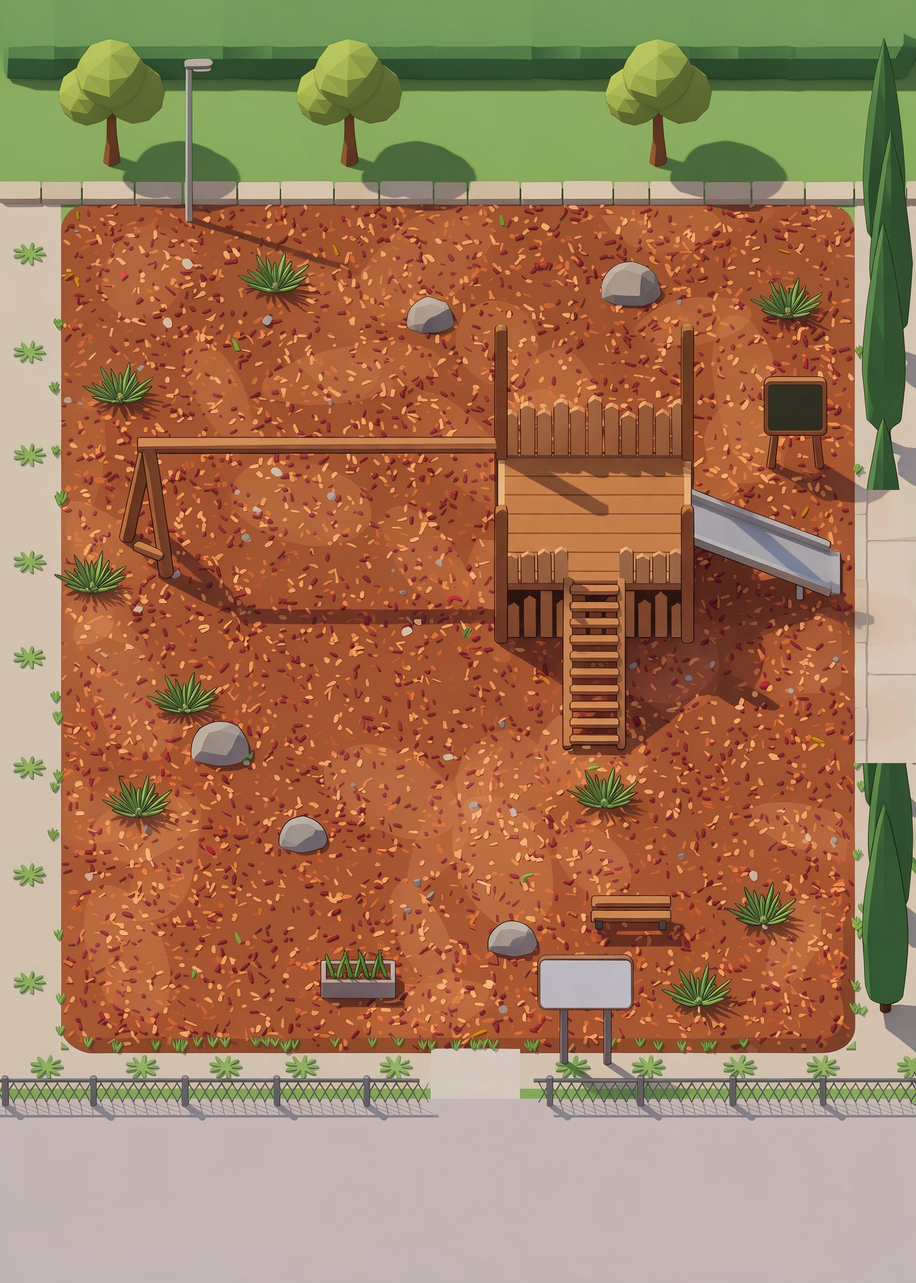
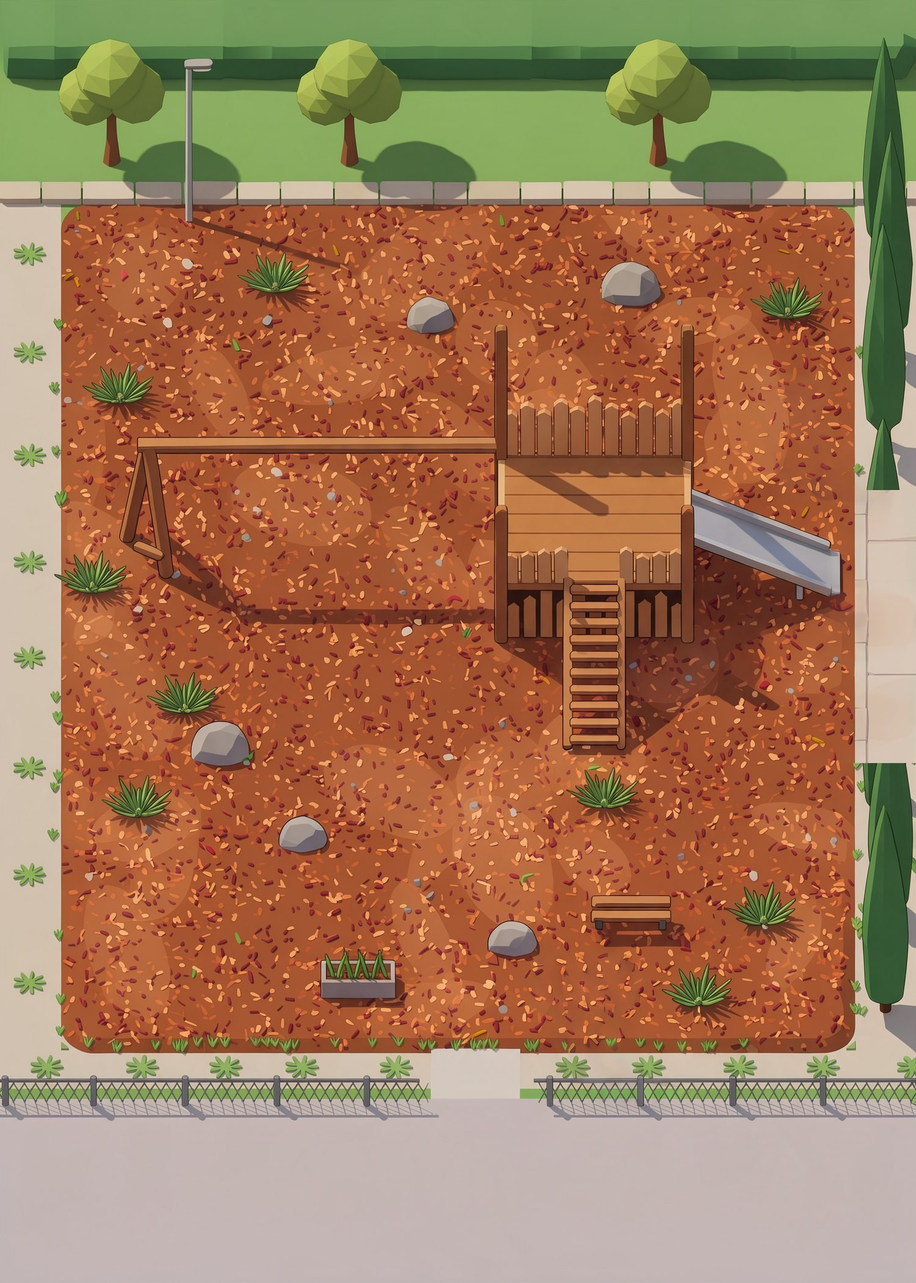
Kein Hänger beim Bereichswechsel (Möbelrahmen vorab, Karte direkt, kein Abdunkeln), eingemalte Schilder entfernt, Schatten passend zum Licht der Karten
Claude-Session: https://claude.ai/code/session_01Qhb842PDzUHjhoZQzbWqNn

Changed region(s): [[0.5827, 0.7429, 0.736, 0.8667], [0.828, 0.2786, 0.9813, 0.4024], [0.8893, 0.4643, 0.9507, 0.4952]]

diff --git a/js/lpwalk.js b/js/lpwalk.js
@@ -1,6 +1,6 @@
 // Laufmasken aus den gemalten Karten (eine Zeile je Zellreihe, 1 = begehbar). Erzeugt aus Bodenfarbe + Möbel-Kernen, nicht von Hand ändern.
 const LP_WALK = {
-  spielplatz: { gw: 40, gh: 56, rows: '0000000000000000000000000000000000000000|0000000000000000000000000000000000000000|0000000000000000000000000000000000000000|0000000000000000000000000000000000000000|0000000000000000000000000000000000000000|0000000000000000000000000000000000000000|0000000000000000000000000000000000000000|0000000000000000000000000000000000000000|0001111101111111111111111111111111111000|0001111111111111111111111111111111111000|0001111111111111111111111111111111111000|0001111111100111111111111100011111111000|0001111111100111110111111100011110001000|0001111111111111110011111111111110001000|0001111111111111110111111111111111011000|0001111111111111111111111111111111111000|0001001111111111111111111111111111111000|0001001111111111111111111111111111001000|0001111111111111111111111111111111001000|0001111111111111111111111111111111011000|0001111111111111111111111111111111011000|0001111111111111111111111111110111111000|0001111111001111001111000000000001111000|0001110011001111001111000000000000001000|0001110011001111001111000000000000001000|0000011111001111001111000000000000001000|0000011111111111111111000000000000111000|0001111111111111111111000000001111111000|0001111111111111111111110000111111111000|0001111111111111111111110000111111111000|0001111001111111111111110000111111111000|0001111001111111111111110000111111111000|0001111000011111111111111001111111111000|0001111100011111111111111111111111111000|0001100110111111111111111001111111111000|0001100111111111111111111000111111111000|0001100111110011111111111000111111111000|0001100111110011111111111111111111111000|0001111111110011111111111111111111111000|0001111111111111111111111111111100111000|0001111111111111111111111100011100111000|0001111111111111111111011111111100011000|0001111111111100011110000000111110111000|0001111111111100011111010000110011111000|0001111111111100011111111111110011111000|0001111111111111111111111111100011111000|0001111111111111111111111111111111111000|0000000000000000000000000000000000000000|0000000000000000000000000000000000000000|0000000000000000000000000000000000000000|0000000000000000000000000000000000000000|0000000000000000000000000000000000000000|0000000000000000000000000000000000000000|0000000000000000000000000000000000000000|0000000000000000000000000000000000000000|0000000000000000000000000000000000000000' },
+  spielplatz: { gw: 40, gh: 56, rows: '0000000000000000000000000000000000000000|0000000000000000000000000000000000000000|0000000000000000000000000000000000000000|0000000000000000000000000000000000000000|0000000000000000000000000000000000000000|0000000000000000000000000000000000000000|0000000000000000000000000000000000000000|0000000000000000000000000000000000000000|0001111101111111111111111111111111111000|0001111111111111111111111111111111111000|0001111111111111111111111111111111111000|0001111111100111111111111100011111111000|0001111111100111110111111100011110001000|0001111111111111110011111111111110001000|0001111111111111110111111111111111011000|0001111111111111111111111111111111111000|0001001111111111111111111111111111111000|0001001111111111111111111111111111111000|0001111111111111111111111111111111111000|0001111111111111111111111111111111011000|0001111111111111111111111111111111011000|0001111111111111111111111111110111111000|0001111111001111001111000000000001111000|0001110011001111001111000000000000001000|0001110011001111001111000000000000001000|0000011111001111001111000000000000001000|0000011111111111111111000000000000111000|0001111111111111111111000000001111111000|0001111111111111111111110000111111111000|0001111111111111111111110000111111111000|0001111001111111111111110000111111111000|0001111001111111111111110000111111111000|0001111000011111111111111001111111111000|0001111100011111111111111111111111111000|0001110110111111111111111001111111111000|0001100111111111111111111000111111111000|0001100111110011111111111000111111111000|0001100111110011111111111111111111111000|0001111111110011111111111111111111111000|0001111111111111111111111111111100111000|0001111111111111111111111100011100111000|0001111111111111111111011111111100011000|0001111111111100011110001111111110111000|0001111111111100011111011111100011111000|0001111111111100011111111111110011111000|0001111111111111111110111111100011111000|0001111111111111111111111111111111111000|0000000000000000000000000000000000000000|0000000000000000000000000000000000000000|0000000000000000000000000000000000000000|0000000000000000000000000000000000000000|0000000000000000000000000000000000000000|0000000000000000000000000000000000000000|0000000000000000000000000000000000000000|0000000000000000000000000000000000000000|0000000000000000000000000000000000000000' },
   kueche: { gw: 56, gh: 36, rows: '00000000000000000000000000000000000000000000000000000000|00000000000000000000000000000000000000000000000000000000|00000000000000000000000000000000000000000000000000000000|00000000000000000000000000000000000000000000000000000000|00000000000000000000000000000000000000000000000000000000|00000000000000000000000000000000000000000000000000000000|00000011000000000000000000000000000000000000000000000000|00000011000000000000000000000000000000000000000000000000|00000010000000000000000000000000001111000000000000000000|00000001000100010110111110011111111111100000110000000000|00000011111111111111111110011111111111110001111111111000|00000011111000111111111111111111111111111111111111111100|00000011110000110000000011111111111111111111111111111100|00000011110000110000000011111111111111111111111100000000|00000011111001110000000011111111100000000111110000000000|00000011111111110000000000111111100000000111110000000000|00000011111111110000000001111111100000000111110000000000|00000011111111110000000000111111100000000111110000000000|00110011111001110000000000111111100000000111110000000000|00110001111000110000000000111111100000000111110000000000|00100001111000110000000000111111100000000111110000000000|00000001111000110000000000111111100000000111110000000000|00110001111000110000000000111111100000000111110000000000|00111011111111110000000001111111100000000111110000000000|00011111111111110000000000111111100000000111111000000000|00000000000111110000000000111111100000000111111100000000|00000000000110110000000000111111100000000111111110000000|00000000000100110000000000111111100000000111111111100000|00000000000110110000000000111111100000000111111110000000|00000000000110110000000000111111100000000111111110000000|00000000000110110000000011111111100000000111111110000000|00000000000111010000000011111111110000001111111110000000|00000000000100010000000011111111111111111111111110000000|00000000000000011100000111111111111111111111111110000000|00000000000000111111111111111111111111111111111110000000|00000000000000000000000000000000000000000000000000000000' },
   gastraum: { gw: 60, gh: 40, rows: '000000000000000000000000000000000000000000000000000000000000|000000000000000000000000000000000000000000000000000000000000|000000000000000000000000000000000000000000000000000000000000|000000000000000000000000000000000000000000000000000000000000|000000000000000000000000000000000000000000000000000000000000|000000000000000000000000000000000000000000000000000000000000|000000000000000000000000000000000000000000000000000000000000|001000000000000000000000111111111111111111111111000000001100|001000000000000000000000111111111111111111111111100000001100|001111111100000000000000011111111111111100000111100000001100|001101110100000000000000011111111111111100000111100000001100|001111111100000000000000011111111111111100000111100000001100|001111111100000000000000011000111111111100000111100000001100|001111111100000000000000111000111111111111111111100000001100|001111111111111110000001111111111111111111111111100000000000|001111111111111110000001111111111111111111111111100000000000|001111111111111110000001111111111111111111111111100000000000|001111111111111110000001111111111111111111000001100000000000|001111111111111110000001111111111111111111000001111111111100|000000010000111110000001110000111111111111000001111111111100|000000110000111111100111110000111111111111000001111111111100|001111110000111111111111110000111111111111111111111111111100|001111110000111111111111110000111111111111111111111111111100|001111111111111111111111111111111100000111111111111111111100|001111111111111111111111111111111100000101011111111111110100|001111111111111111111111111111111111111000001111110000100100|001111111111111111111111111111111111111000001111110000111100|001110011111111111111111111111111111111000001111110000111100|001110001111111111111111111111111111111000001111110000111100|001110011111011111111111111011111111111111111111111111111100|001111111000000011111111000000011111111111111111111111111100|001111111000000011111111000000011111111111111111111111111100|001100011000000011111111000000011111101001011011010111111100|001100011110001111111111110001111111000000000000000011111100|001100011111111111111111111111111111000000000000000011000000|001100011111111111111111111111111111000000000000000011000000|001100011111111111111111111111111111110000000000001111100000|000000000000000000000000000000000000000000000000000000000000|000000000000000000000000000000000000000000000000000000000000|000000000000000000000000000000000000000000000000000000000000' },
   aussen: { gw: 72, gh: 32, rows: '000000000000000000000000000000000000000000000000000000000000000000000000|000000111111111111111111111111111111111111011111111111111111111111111100|000000111111111111111111111111111111111111111111111111111111111111111100|000000111111111111111111111111111111111111111111111111111111111111111100|000000111111111111111111111111111111111111111111111111111111111111111100|000000111111111111111111111111111111111111111111111111111111111111000000|001111111111111101111101111111111111111111111111111111111111111111000000|001111111111111100111100111111110110111111111111111111111111111111100000|001110001111111111111111111101110000111110011111111111111111111111111000|001110001100001111000001111000001001111111011111111111111111111111111100|001111111100001111000001111000001111111111111111000011111111111111111100|001111100100001110000000111000001011111110011111000011111100000111111100|001111111111111111111110111111111011111111011110000011111100000111111100|001111111111111111111111111111111111111111111111100111111111001111111100|001111111111111111111111111111111111111111011111111111111111111111111100|001111001100001111000001111000001111111111011111111111111111111111111100|001111001100001111000001111000001111111111111111111111111111111111111100|001111100100001110000000111000001011111111011111111111111111111111111100|001111100111111110011110111111111011111110011111111111111111111111111100|001111111111111111111111111111111000011111111111111111111111111111111100|001111111111111111111111111111111000011111111111111111111111111111111100|001111111111111111110111111111111111111111111111111111111111110000011000|001111111111111111111111111111111111111111111111111111111111110000111100|001111111111111111111111111111111111111111111111111111111111111111111100|001111111111111111111111111111111111111111111101111111111111111111111100|001111111111111111111000111111111111111111111001111111111111111111111100|001111111111111111111000111100000111111111111111111111111111111111111100|001111111111111111110000111000000111111111111111111111111111111111111100|001111111111111111111111111000000111111111111111111111111111111111111100|001111111111111111111111111111111111100000111111111111111111111110000000|000000000000000000000000000000000000000000000000000000001110000000000000|000000000000000000000000000000000000000000000000000000001110000000000000' },

diff --git a/js/bbcache.js b/js/bbcache.js
@@ -1,0 +1,2 @@
+// Vorab vermessene Möbel-Rahmen (sonst dauert der erste Besuch eines Bereichs bis zu 0,5 s). Erzeugt mit bbdump.js – bei geänderter Deko neu erzeugen.
+Object.assign(BB_CACHE, {"kueche_d_herd":[452.6,291.1,154,545.4],"kueche_d_pass":[814,291.1,208.3,485.4],"kueche_d_salat":[1192.6,311.1,154,345.4],"kueche_d_regal":[1226.9,651.1,125.4,239.7],"kueche_d_wagen1":[284,769.7,91.1,99.7],"kueche_d_wagen2":[994,174.7,91.1,99.7],"kueche_d_eimer":[614,210.3,51.1,65.4],"kueche_d_kuehlraum":[52.6,551.1,234,316.9],"kueche_d_kisten1":[254,442.6,91.1,136.9],"kueche_d_kisten2":[84,445.4,91.1,134],"kueche_d_kistenregal":[42.6,102.6,105.4,325.4],"kueche_d_faesser":[239.7,258.3,119.7,94],"kueche_d_getraenke":[191.1,52.6,96.9,185.4],"kueche_d_stahl":[291.9,52.6,85.4,185.4],"kueche_d_saecke":[192.6,641.1,71.1,59.7],"kueche_d_kanister":[319.7,646.9,39.7,51.1],"gastraum_d_bar":[54,98.6,488.3,145.4],"gastraum_d_hocker0":[96.9,192.6,45.4,91.1],"gastraum_d_hocker1":[188.9,192.6,45.4,91.1],"gastraum_d_hocker2":[280.9,192.6,45.4,91.1],"gastraum_d_hocker3":[372.9,192.6,45.4,91.1],"gastraum_d_hocker4":[464.9,192.6,45.4,91.1],"gastraum_d_treppe":[1241.1,-41.7,171.1,485.4],"gastraum_d_kuebel2":[539.7,188.3,82.6,128.3],"gastraum_d_yucca":[660.3,184,111.1,162.6],"gastraum_d_palmtisch":[396.9,128.3,205.4,379.7],"gastraum_d_palme1":[-8.1,171.1,205.4,365.4],"gastraum_d_palme2":[801.9,261.1,205.4,365.4],"gastraum_d_palme3":[1306.9,51.1,205.4,365.4],"gastraum_d_palme4":[1306.9,551.1,205.4,365.4],"gastraum_d_tisch1":[181.1,424.7,136.9,142.6],"gastraum_d_tisch2":[631.1,424.7,136.9,142.6],"gastraum_d_olive1":[181.1,551.1,259.7,279.7],"gastraum_d_olive2":[561.1,551.1,259.7,279.7],"gastraum_d_wagen":[119.7,645.4,85.4,91.1],"gastraum_d_tisch3":[1041.1,379.7,136.9,142.6],"gastraum_d_tisch4":[1231.1,599.7,136.9,122.6],"gastraum_d_tafel":[891.1,791.1,416.9,119.7],"gastraum_d_kuebel1":[99.7,788.3,82.6,128.3],"gastraum_d_fass":[1369.7,539.7,79.7,116.9],"gastraum_d_tisch5":[991.1,199.7,136.9,122.6],"gastraum_d_tisch6":[961.1,589.7,136.9,122.6],"aussen_d_topf1":[398.3,131.7,62.6,74],"aussen_d_topf2":[538.3,131.7,62.6,74],"aussen_d_olive1":[122.6,82.6,116.9,174],"aussen_d_olive2":[817.6,357.6,116.9,174],"aussen_d_kissenbox":[795.4,166.1,108.3,85.4],"aussen_d_tisch1":[228.3,200.9,142.6,99.7],"aussen_d_tisch2":[448.3,200.9,142.6,99.7],"aussen_d_tisch3":[668.3,200.9,142.6,99.7],"aussen_d_tisch4":[228.3,350.9,142.6,99.7],"aussen_d_tisch5":[448.3,350.9,142.6,99.7],"aussen_d_tisch6":[668.3,350.9,142.6,99.7],"aussen_d_pf0":[185.4,152.6,39.7,168.3],"aussen_d_pf1":[435.4,152.6,39.7,168.3],"aussen_d_pf2":[575.4,152.6,39.7,168.3],"aussen_d_pf3":[825.4,152.6,39.7,168.3],"aussen_d_pf4":[185.4,312.6,39.7,168.3],"aussen_d_pf5":[435.4,312.6,39.7,168.3],"aussen_d_pf6":[575.4,312.6,39.7,168.3],"aussen_d_pf7":[825.4,312.6,39.7,168.3],"aussen_d_lounge":[156.1,346.9,56.9,76.9],"aussen_d_kugel1":[471.1,476.3,96.9,94],"aussen_d_kugel2":[1098.3,568.3,102.6,94],"aussen_d_brunnen":[1181.1,105.4,136.9,219.7],"aussen_d_baum4":[885.4,554,199.7,242.6],"aussen_d_baum5":[1605.4,554,199.7,242.6],"aussen_d_brunnen2":[505.4,611.1,108.3,85.4],"aussen_d_baum1":[1425.4,114,199.7,242.6],"aussen_d_baum2":[1595.4,-36,199.7,242.6],"aussen_d_baum3":[1525.4,354,199.7,242.6],"aussen_d_bank":[676.9,636.9,165.4,79.7],"parkplatz_d_a1":[1176.1,635.9,96.9,131.1],"parkplatz_d_a2":[1286.1,635.9,96.9,131.1],"parkplatz_d_a3":[1506.1,635.9,96.9,131.1],"parkplatz_d_a4":[1725.1,635.9,96.9,131.1],"parkplatz_d_a5":[2165.1,635.9,96.9,131.1],"parkplatz_d_a6":[2385.1,635.9,96.9,131.1],"parkplatz_d_a7":[2495.1,635.9,96.9,131.1],"parkplatz_d_a8":[275.1,1173.9,96.9,131.1],"parkplatz_d_a9":[495.1,1173.9,96.9,131.1],"parkplatz_d_a10":[605.1,1173.9,96.9,131.1],"parkplatz_d_a11":[715.1,1173.9,96.9,131.1],"parkplatz_d_a12":[934.1,1173.9,96.9,131.1],"parkplatz_d_a13":[1154.1,1173.9,96.9,131.1],"parkplatz_d_a14":[1264.1,1173.9,96.9,131.1],"parkplatz_d_a15":[1594.1,1173.9,96.9,131.1],"parkplatz_d_a16":[2034.1,1173.9,96.9,131.1],"parkplatz_d_a17":[2143.1,1173.9,96.9,131.1],"parkplatz_d_a18":[2363.1,1173.9,96.9,131.1],"parkplatz_d_anhaenger":[141.1,1075.4,65.4,188.3],"parkplatz_d_transporter":[262.6,1272.6,76.9,131.1],"parkplatz_d_insel":[682.6,206.3,145.4,216.9],"parkplatz_d_pflanz":[1451.1,722.6,108.3,159.7],"parkplatz_d_po0":[1188.3,728.3,28.3,42.6],"parkplatz_d_po1":[1218.3,725.3,28.3,42.6],"parkplatz_d_po2":[1249.3,721.3,28.3,42.6],"parkplatz_d_po3":[1279.3,718.3,28.3,42.6],"parkplatz_d_po4":[1310.3,714.3,28.3,42.6],"parkplatz_d_po5":[1340.3,711.3,28.3,42.6],"parkplatz_d_po6":[1371.3,707.3,28.3,42.6],"parkplatz_d_po7":[1401.3,704.3,28.3,42.6],"parkplatz_d_po8":[1431.3,700.3,28.3,42.6],"parkplatz_d_po9":[1462.3,697.3,28.3,42.6],"parkplatz_d_po10":[1492.3,693.3,28.3,42.6],"parkplatz_d_po11":[1584.3,683.3,28.3,42.6],"parkplatz_d_po12":[1614.3,679.3,28.3,42.6],"parkplatz_d_po13":[1645.3,676.3,28.3,42.6],"parkplatz_d_po14":[1675.3,672.3,28.3,42.6],"parkplatz_d_po15":[1705.3,669.3,28.3,42.6],"parkplatz_d_po16":[1736.3,665.3,28.3,42.6],"parkplatz_d_po17":[1766.3,662.3,28.3,42.6],"parkplatz_d_po18":[1797.3,658.3,28.3,42.6],"parkplatz_d_po19":[1827.3,655.3,28.3,42.6],"parkplatz_d_po20":[1949.3,641.3,28.3,42.6],"parkplatz_d_po21":[1979.3,638.3,28.3,42.6],"parkplatz_d_po22":[2010.3,634.3,28.3,42.6],"parkplatz_d_po23":[2040.3,631.3,28.3,42.6],"parkplatz_d_po24":[2071.3,627.3,28.3,42.6],"parkplatz_d_po25":[2101.3,624.3,28.3,42.6],"parkplatz_d_po26":[2131.3,620.3,28.3,42.6],"parkplatz_d_po27":[2162.3,617.3,28.3,42.6],"parkplatz_d_po28":[2192.3,613.3,28.3,42.6],"parkplatz_d_po29":[2284.3,603.3,28.3,42.6],"parkplatz_d_po30":[2314.3,599.3,28.3,42.6],"parkplatz_d_po31":[2345.3,596.3,28.3,42.6],"parkplatz_d_po32":[2375.3,592.3,28.3,42.6],"parkplatz_d_po33":[2405.3,589.3,28.3,42.6],"parkplatz_d_po34":[2436.3,585.3,28.3,42.6],"parkplatz_d_po35":[2466.3,582.3,28.3,42.6],"parkplatz_d_po36":[2497.3,578.3,28.3,42.6],"parkplatz_d_po37":[2527.3,575.3,28.3,42.6],"parkplatz_d_po38":[2558.3,571.3,28.3,42.6],"parkplatz_d_po39":[2588.3,568.3,28.3,42.6],"parkplatz_d_po40":[288.3,1048.3,28.3,42.6],"parkplatz_d_po41":[318.3,1045.3,28.3,42.6],"parkplatz_d_po42":[348.3,1042.3,28.3,42.6],"parkplatz_d_po43":[378.3,1038.3,28.3,42.6],"parkplatz_d_po44":[409.3,1035.3,28.3,42.6],"parkplatz_d_po45":[439.3,1032.3,28.3,42.6],"parkplatz_d_po46":[469.3,1029.3,28.3,42.6],"parkplatz_d_po47":[499.3,1026.3,28.3,42.6],"parkplatz_d_po48":[529.3,1023.3,28.3,42.6],"parkplatz_d_po49":[559.3,1019.3,28.3,42.6],"parkplatz_d_po50":[590.3,1016.3,28.3,42.6],"parkplatz_d_po51":[620.3,1013.3,28.3,42.6],"parkplatz_d_po52":[650.3,1010.3,28.3,42.6],"parkplatz_d_po53":[680.3,1007.3,28.3,42.6],"parkplatz_d_po54":[710.3,1004.3,28.3,42.6],"parkplatz_d_po55":[801.3,994.3,28.3,42.6],"parkplatz_d_po56":[831.3,991.3,28.3,42.6],"parkplatz_d_po57":[861.3,988.3,28.3,42.6],"parkplatz_d_po58":[891.3,985.3,28.3,42.6],"parkplatz_d_po59":[921.3,981.3,28.3,42.6],"parkplatz_d_po60":[951.3,978.3,28.3,42.6],"parkplatz_d_po61":[982.3,975.3,28.3,42.6],"parkplatz_d_po62":[1012.3,972.3,28.3,42.6],"parkplatz_d_po63":[1042.3,969.3,28.3,42.6],"parkplatz_d_po64":[1072.3,965.3,28.3,42.6],"parkplatz_d_po65":[1102.3,962.3,28.3,42.6],"parkplatz_d_po66":[1132.3,959.3,28.3,42.6],"parkplatz_d_po67":[1163.3,956.3,28.3,42.6],"parkplatz_d_po68":[1313.3,940.3,28.3,42.6],"parkplatz_d_po69":[1344.3,937.3,28.3,42.6],"parkplatz_d_po70":[1374.3,934.3,28.3,42.6],"parkplatz_d_po71":[1404.3,931.3,28.3,42.6],"parkplatz_d_po72":[1434.3,927.3,28.3,42.6],"parkplatz_d_po73":[1464.3,924.3,28.3,42.6],"parkplatz_d_po74":[1494.3,921.3,28.3,42.6],"parkplatz_d_po75":[1525.3,918.3,28.3,42.6],"parkplatz_d_po76":[1555.3,915.3,28.3,42.6],"parkplatz_d_po77":[1585.3,911.3,28.3,42.6],"parkplatz_d_po78":[1615.3,908.3,28.3,42.6],"parkplatz_d_po79":[1645.3,905.3,28.3,42.6],"parkplatz_d_po80":[1675.3,902.3,28.3,42.6],"parkplatz_d_po81":[1766.3,892.3,28.3,42.6],"parkplatz_d_po82":[1796.3,889.3,28.3,42.6],"parkplatz_d_po83":[1826.3,886.3,28.3,42.6],"parkplatz_d_po84":[1856.3,883.3,28.3,42.6],"parkplatz_d_po85":[1886.3,880.3,28.3,42.6],"parkplatz_d_po86":[1917.3,877.3,28.3,42.6],"parkplatz_d_po87":[1947.3,873.3,28.3,42.6],"parkplatz_d_po88":[1977.3,870.3,28.3,42.6],"parkplatz_d_po89":[2007.3,867.3,28.3,42.6],"parkplatz_d_po90":[2037.3,864.3,28.3,42.6],"parkplatz_d_po91":[2067.3,861.3,28.3,42.6],"parkplatz_d_po92":[2098.3,858.3,28.3,42.6],"parkplatz_d_po93":[2128.3,854.3,28.3,42.6],"parkplatz_d_po94":[2158.3,851.3,28.3,42.6],"parkplatz_d_po95":[2188.3,848.3,28.3,42.6],"parkplatz_d_lampe1":[1742.6,48.3,68.3,202.6],"parkplatz_d_lampe2":[2182.6,628.3,68.3,202.6],"parkplatz_d_busch1":[76.9,848.3,85.4,65.4],"parkplatz_d_busch2":[1156.9,1348.3,85.4,65.4],"parkplatz_d_busch3":[2576.9,1328.3,85.4,65.4],"parkplatz_d_baum1":[41.1,402.6,191.1,234],"parkplatz_d_baum2":[1811.1,1222.6,191.1,234],"parkplatz_d_pylon":[2525.4,1071.1,68.3,205.4],"chalet_d_tafel1":[234.9,538.3,285.4,122.6],"chalet_d_tafel2":[798.9,538.3,285.4,122.6],"chalet_d_tafel3":[516.9,728.3,285.4,122.6],"chalet_d_baum":[1053.3,245.4,142.6,234],"chalet_d_holzkorb":[459.3,345.4,62.6,71.1],"chalet_d_garderobe":[132.1,306.9,96.9,154],"chalet_d_fass":[797.3,344,62.6,82.6],"chalet_d_schaukelstuhl":[168.7,912.6,79.7,91.1],"chalet_d_kiste":[1073.6,886.1,76.9,125.4],"chalet_d_tanne1":[15.4,991.1,159.7,256.9],"chalet_d_tanne2":[855.4,961.1,159.7,256.9],"chalet_d_tanne3":[45.4,1411.1,159.7,256.9],"chalet_d_tanne4":[285.4,1351.1,159.7,256.9],"chalet_d_schneemann":[242.6,1134,111.1,165.4],"chalet_d_holzstapel":[678.3,1056.9,222.6,154],"chalet_d_hackklotz":[608.3,1149.7,68.3,96.9],"chalet_d_schlitten":[176.9,1428.3,102.6,48.3],"chalet_d_laterne1":[359.7,1014,79.7,156.9],"chalet_d_laterne2":[559.7,1254,79.7,156.9],"chalet_d_laterne3":[359.7,1554,79.7,156.9],"chalet_d_rentier":[842.6,1545.4,94,131.1],"chalet_d_wagenrad":[576.9,1612.6,85.4,94],"chalet_d_schneehaufen":[134,1279.7,88.3,56.9],"chalet_d_tanne5":[1125.4,1121.1,159.7,256.9],"chalet_d_tanne6":[1405.4,1271.1,159.7,256.9],"chalet_d_schneehaufen2":[1334,1159.7,88.3,56.9],"chalet_d_tafel4":[516.9,898.3,285.4,122.6],"chalet_d_fass2":[158.3,734,62.6,82.6],"chalet_d_fass3":[1118.3,734,62.6,82.6],"chalet_d_holzkorb2":[988.3,945.4,62.6,71.1],"chalet_d_tanne7":[1405.4,1491.1,159.7,256.9],"chalet_d_tanne8":[1465.4,1071.1,159.7,256.9],"chalet_d_tanne9":[925.4,1471.1,159.7,256.9],"chalet_d_laterne4":[1129.7,1274,79.7,156.9],"chalet_d_schneemann2":[1272.6,1494,111.1,165.4],"chalet_d_schlitten2":[816.9,1548.3,102.6,48.3],"chalet_d_holzstapel2":[1288.3,1036.9,222.6,154],"chalet_d_schneehaufen3":[74,1659.7,88.3,56.9],"uebung_d_tafel":[129.7,165.4,159.7,145.4],"uebung_d_kisten":[751.1,329.7,136.9,116.9],"uebung_d_fass":[262.6,556.9,76.9,99.7],"uebung_d_wagen":[805.4,591.1,148.3,119.7],"uebung_d_pflanze1":[99.7,716.9,79.7,111.1],"uebung_d_pflanze2":[939.7,196.9,79.7,111.1],"uebung_d_bank":[491.1,328.3,136.9,62.6]});

diff --git a/js/lowpoly.js b/js/lowpoly.js
@@ -10,9 +10,9 @@ const LP = {
     gastraum: { map: 'assets/lowpoly/gastraum/map.jpg?v=2', staff: {} },
     aussen: { map: 'assets/lowpoly/aussen/map.jpg?v=1', staff: {} },
     parkplatz: { map: 'assets/lowpoly/parkplatz/map.jpg?v=3', staff: {} },
-    uebung: { map: 'assets/lowpoly/uebung/map.jpg?v=1', staff: {} },
+    uebung: { map: 'assets/lowpoly/uebung/map.jpg?v=2', staff: {} },
     chalet: { map: 'assets/lowpoly/chalet/map.jpg?v=2', staff: {} },
-    spielplatz: { map: 'assets/lowpoly/spielplatz/map.jpg?v=3', staff: {}, roof: [518, 395, 288, 168] },   // Schaukelgerüst, Rutsche, Treppe, Häuschen sind im Bild; Dach extra (wird durchsichtig)
+    spielplatz: { map: 'assets/lowpoly/spielplatz/map.jpg?v=4', staff: {}, roof: [518, 395, 288, 168] },   // Schaukelgerüst, Rutsche, Treppe, Häuschen sind im Bild; Dach extra (wird durchsichtig)
   },
   zoomK: 0.72,   // Zoom in allen Bereichen gleich (Küche als Maß)
   playerArt: true,   // gemalte Spielfigur (Löwe/Bär/Hund); andere Tiere zeichnen weiter die alte Figur
@@ -34,6 +34,7 @@ const LP = {
     im.onload = im.onerror = () => {
       if (--left) return;
       LP.ready = list.every(([n]) => LP.img[n].naturalWidth > 0);
+      if (LP.ready) for (const id in LP.stages) { const m = LP.img['map_' + id]; if (m.decode) m.decode().catch(() => {}); }   // alle Karten schon jetzt entpacken: kein Ruckeln beim ersten Betreten
       if (LP.ready) {   // Boden mit dem Bild neu aufbauen – auch die Nachbar-Bereiche, die man am Rand sieht
         GROUND = null; for (const id in LP.stages) delete GROUND_CACHE[id];
         if (typeof scene !== 'undefined' && scene && scene.stage && !scene.mp && typeof worldPrepare === 'function') worldPrepare(scene.stage, scene.diff);
@@ -69,10 +70,19 @@ function lpOcclude(c, x, y, w, h) {
   }
 }
 const LP_STEP = [0, 1, 3, 4];   // Laufbilder 3 und 6 stehen fast still (hakt) – nur die 4 Schrittbilder
+// Schatten passend zu den gemalten Karten: Licht von rechts oben -> weicher Schatten nach links unten + kleiner Kontaktschatten an den Füßen
+function lpShadow(c, x, y, w, h) {
+  const rx = w * 0.42 + h * 0.16, ry = Math.max(4, h * 0.075), sx = x - h * 0.16, sy = y + h * 0.015;
+  c.save(); c.translate(sx, sy); c.rotate(-0.12); c.scale(1, ry / rx);
+  const g = c.createRadialGradient(0, 0, 0, 0, 0, rx); g.addColorStop(0, 'rgba(30,22,14,.30)'); g.addColorStop(0.6, 'rgba(30,22,14,.16)'); g.addColorStop(1, 'rgba(30,22,14,0)');
+  c.fillStyle = g; c.beginPath(); c.arc(0, 0, rx, 0, Math.PI * 2); c.fill(); c.restore();
+  c.save(); c.translate(x, y - 1); c.scale(1, 0.32); const k = c.createRadialGradient(0, 0, 0, 0, 0, w * 0.3); k.addColorStop(0, 'rgba(25,18,10,.32)'); k.addColorStop(1, 'rgba(25,18,10,0)');
+  c.fillStyle = k; c.beginPath(); c.arc(0, 0, w * 0.3, 0, Math.PI * 2); c.fill(); c.restore();
+}
 function lpSprite(c, im, x, y, h, flip = 1, bob = 0, tilt = 0) {
   const w = h * im.naturalWidth / im.naturalHeight;
   c.save(); c.translate(x, y);
-  c.fillStyle = 'rgba(40,25,10,.28)'; c.beginPath(); c.ellipse(0, -2, w * 0.4, h * 0.07, 0, 0, Math.PI * 2); c.fill();
+  lpShadow(c, 0, 0, w, h);
   c.translate(0, -bob); c.rotate(tilt); c.scale(flip, 1); c.drawImage(im, -w / 2, -h, w, h); c.restore();
 }
 // Spielfigur: Richtung aus der Bewegung, alle 11 px Weg ein neues Laufbild (6 Bilder = ein Schritt)
@@ -216,12 +226,12 @@ function lpGateWrap(orig, name) {
     const side = s >= 0.9 && typeof WORLD_W !== 'undefined' && (x < 140 || x > WORLD_W - 140) ? (x < 140 ? -1 : 1) : 0;   // Tor in einer Seitenwand: von der Seite gesehen (schmal), nicht quer im Raum
     if (side) {
       const cx = x + (B.x0 + B.w / 2) * s, sw = w * 0.34;
-      c.save(); c.fillStyle = 'rgba(40,25,10,.22)'; ell(c, cx, bottom - 2 * s, sw * 0.7, 6 * s); c.fill();
+      c.save(); lpShadow(c, cx, bottom, sw * 1.4, h);
       c.translate(cx, bottom); c.transform(1, side * -0.35, 0, 1, 0, 0); c.drawImage(im, -sw / 2, -h, sw, h); c.restore();
       if (locked) lpLock(c, cx, bottom - h * 0.55, 20 * Math.max(0.6, s), t);
       return;
     }
-    c.save(); c.fillStyle = 'rgba(40,25,10,.22)'; ell(c, x + (B.x0 + B.w / 2) * s, bottom - 2 * s, B.w * 0.5 * s, 7 * s); c.fill(); c.restore();
+    lpShadow(c, x + (B.x0 + B.w / 2) * s, bottom, B.w * s, h);
     c.drawImage(im, left, bottom - h, w, h);
     if (locked) lpLock(c, x + (B.x0 + B.w / 2) * s, bottom - h * 0.55, 20 * Math.max(0.6, s), t);
   };
@@ -233,7 +243,7 @@ function lpPigeonWrap(orig) {
     const im = flying ? lpSpr((Math.sin((t || 0) * 22) > 0) ? 'tore/taube_hoch' : 'tore/taube_runter') : lpSpr('tore/taube_steht');
     if (!im) return orig.apply(this, arguments);
     const B = lpMeasure('pigeon', (g, gx, gy) => orig(g, gx, gy, 1, 0, 1, false)), h = B.h * s * 1.25, w = im.naturalWidth * h / im.naturalHeight;
-    if (!flying) { c.save(); c.fillStyle = 'rgba(40,25,10,.22)'; ell(c, x, y, w * 0.35, 3 * s); c.fill(); c.restore(); }
+    if (!flying) lpShadow(c, x, y, w, h);
     c.save(); c.translate(x, y); c.scale(dir < 0 ? -1 : 1, 1); c.drawImage(im, -w / 2, -h, w, h); c.restore();
   };
 }
@@ -245,7 +255,7 @@ function lpPersonWrap(orig, kind) {
     if (!im) return orig.apply(this, arguments);
     const B = lpMeasure(kind + '_' + id, (g, gx, gy) => orig(g, id, gx, gy, 1, 0, { noShadow: true, staff: true })), h = B.h * s * 0.96, w = im.naturalWidth * h / im.naturalHeight;
     const bob = o.wave ? Math.abs(Math.sin((t || 0) * 6)) * 4 * s : Math.abs(Math.sin((t || 0) * 1.6 + (o.ph || x))) * 1.2 * s;
-    if (!o.noShadow) { c.save(); c.fillStyle = 'rgba(40,25,10,.25)'; ell(c, x, y - 1, w * 0.36, 5 * s); c.fill(); c.restore(); }
+    if (!o.noShadow) lpShadow(c, x, y, w, h);
     c.drawImage(im, x - w / 2, y - h - bob - (o.sit ? -h * 0.12 : 0), w, h);
   };
 }

diff --git a/js/stage.js b/js/stage.js
@@ -169,6 +169,7 @@ function smoothPath(sx, sy, sl, out) {   // Zickzack glätten: Zwischenpunkte we
 // ---------- Boden einmal vorzeichnen ----------
 let GROUND = null;
 function buildGround() {
+  if (lpActive()) { GROUND = GROUND_CACHE[SG.id] = LP.img['map_' + SG.id]; return; }   // Low-Poly: Bild direkt (kein Kopieren in eine eigene Fläche – spart den Hänger beim Bereichswechsel)
   const Q = Math.min(1.25, Math.sqrt(2.2e6 / (WORLD_W * WORLD_H))), cv2 = document.createElement('canvas'); cv2.width = Math.round(WORLD_W * Q); cv2.height = Math.round(WORLD_H * Q);   // große Bereiche etwas gröber (Speicher)
   const g = cv2.getContext('2d'); g.scale(Q, Q); g.lineJoin = 'round';
   const R = mulberry32(4242);
@@ -419,7 +420,7 @@ class Play {
     if (!SG.feat.racer) this.racer.state = 'off';
     for (const d of DECOR) if (SG.decorDraw && SG.decorDraw[d.t]) measureBB(SG.id + '_d_' + d.id, d.x, d.y, g => SG.decorDraw[d.t](g, d, 0, 0));   // Bildrahmen einmal vorab messen
     if (SG.extras) this.extras = SG.extras(this);   // bereichseigene Figuren/Animationen
-    if (!this.mp && !SG.solo && typeof worldNeighbors === 'function') { worldNeighbors(this); this.markArea(); if (opt.enter) { this.banner = { text: STAGE_NAME[this.stage], t: 0 }; this.fadeIn = 0.35; } }
+    if (!this.mp && !SG.solo && typeof worldNeighbors === 'function') { worldNeighbors(this); this.markArea(); if (opt.enter) { this.banner = { text: STAGE_NAME[this.stage], t: 0 }; this.fadeIn = typeof LP !== "undefined" && LP.on ? 0 : 0.35; /* Low-Poly: nahtlos, kein Abdunkeln */ } }
     if (opt.joy) this.joy = opt.joy;
     if (!GROUND) buildGround();
     if (this.mp) this.mpSetup();

diff --git a/index.html b/index.html
@@ -22,6 +22,7 @@
 <body>
 <canvas id="c"></canvas>
 <script src="js/core.js?v=20261030gr17"></script>
+<script src="js/bbcache.js?v=20261031d"></script>
 <script src="js/voiceclips.js?v=20261030gr6"></script>
 <script src="js/art.js?v=20261030gr6"></script>
 <script src="js/brand.js?v=20261030gr6"></script>
@@ -33,14 +34,14 @@
 <script src="js/games5.js?v=20261030gr6"></script>
 <script src="js/games6.js?v=20261030gr6"></script>
 <script src="js/themes.js?v=20261030gr6"></script>
-<script src="js/stage.js?v=20261031b"></script>
+<script src="js/stage.js?v=20261031d"></script>
 <script src="js/stage_kueche.js?v=20261030gr6"></script>
 <script src="js/stage_gastraum.js?v=20261030gr6"></script>
 <script src="js/stage_aussen.js?v=20261030gr6"></script>
 <script src="js/stage_chalet.js?v=20261030gr7"></script>
 <script src="js/stage_parkplatz.js?v=20261030gr18"></script>
-<script src="js/lowpoly.js?v=20261031a"></script>
-<script src="js/lpwalk.js?v=20261031b"></script>
+<script src="js/lowpoly.js?v=20261031d"></script>
+<script src="js/lpwalk.js?v=20261031d"></script>
 <script src="js/world.js?v=20261031b"></script>
 <script src="js/tutorial.js?v=20261030gr6"></script>
 <script src="js/ui.js?v=20261031b"></script>
